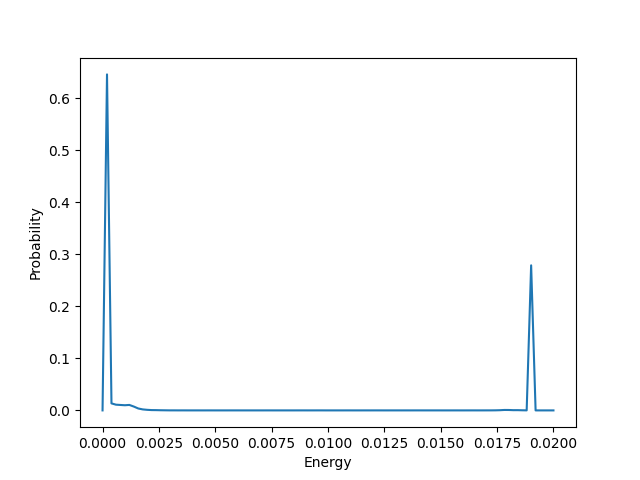
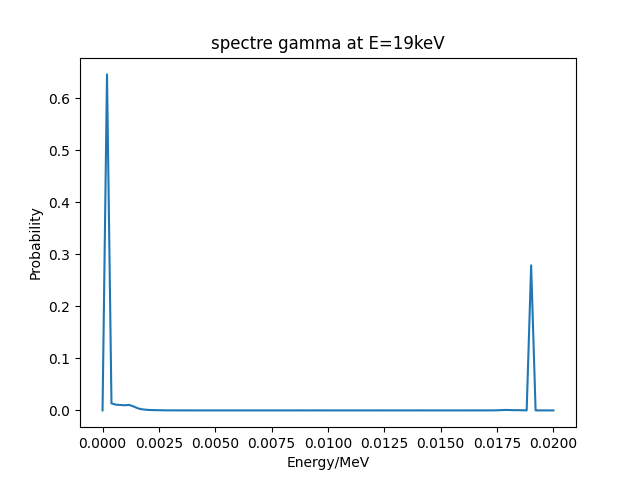
figure

Changed region(s): [[0.3438, 0.0625, 0.6875, 0.125], [0.4375, 0.9375, 0.5938, 1.0]]

diff --git a/MCTDCRcode/MCNP-MATRIX/test_lire.py b/MCTDCRcode/MCNP-MATRIX/test_lire.py
@@ -21,9 +21,9 @@ def readMCNP(energy,np):
         p.append(float(data[j][1]))
     return e,p
 
-e,p = readMCNP(8,100)
+e,p = readMCNP(19,100)
 plt.plot(e,p)
-plt.xlabel('Energy')
+plt.xlabel('Energy/MeV')
 plt.ylabel('Probability')
-plt.title('spectre gamma at E=8keV')
-plt.savefig('proba = f(E)_8keV.png')
+plt.title('spectre gamma at E=19keV')
+plt.savefig('proba = f(E)_19keV.png')
